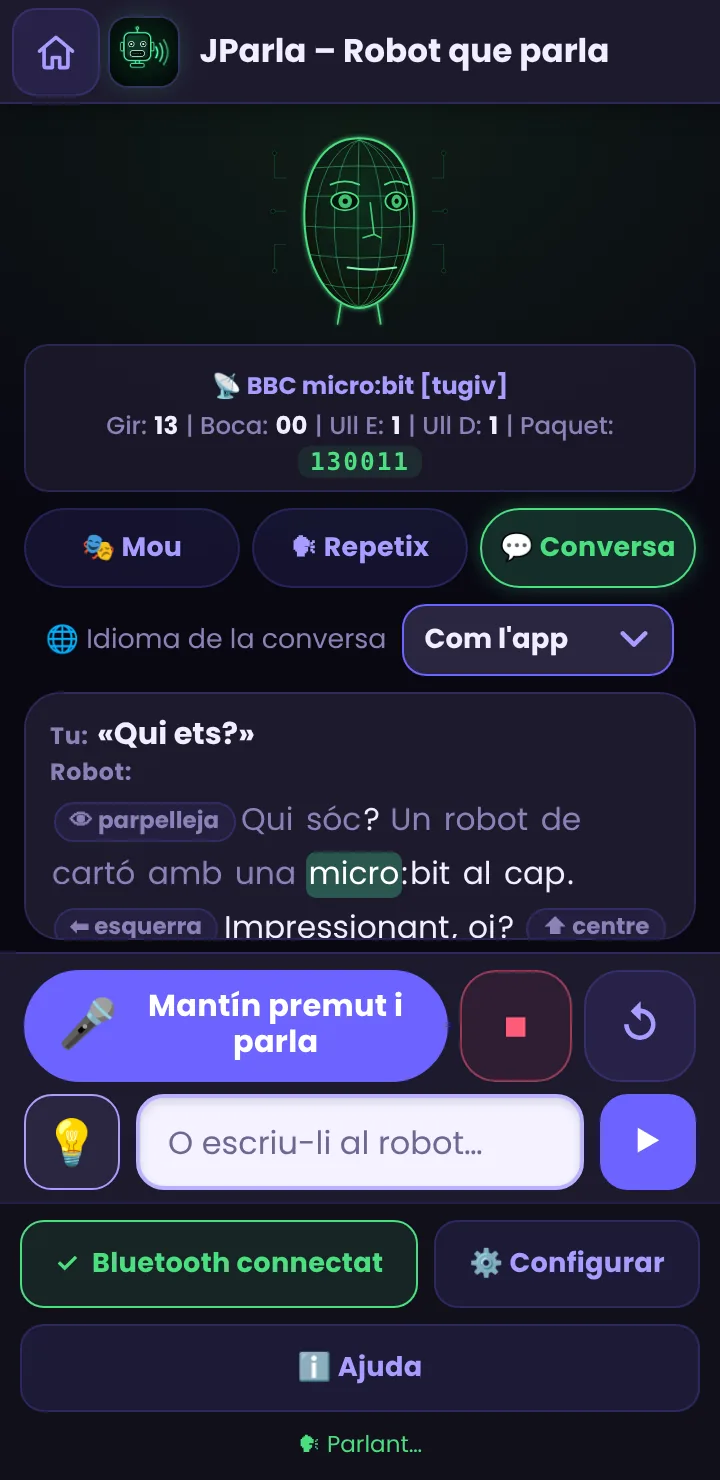
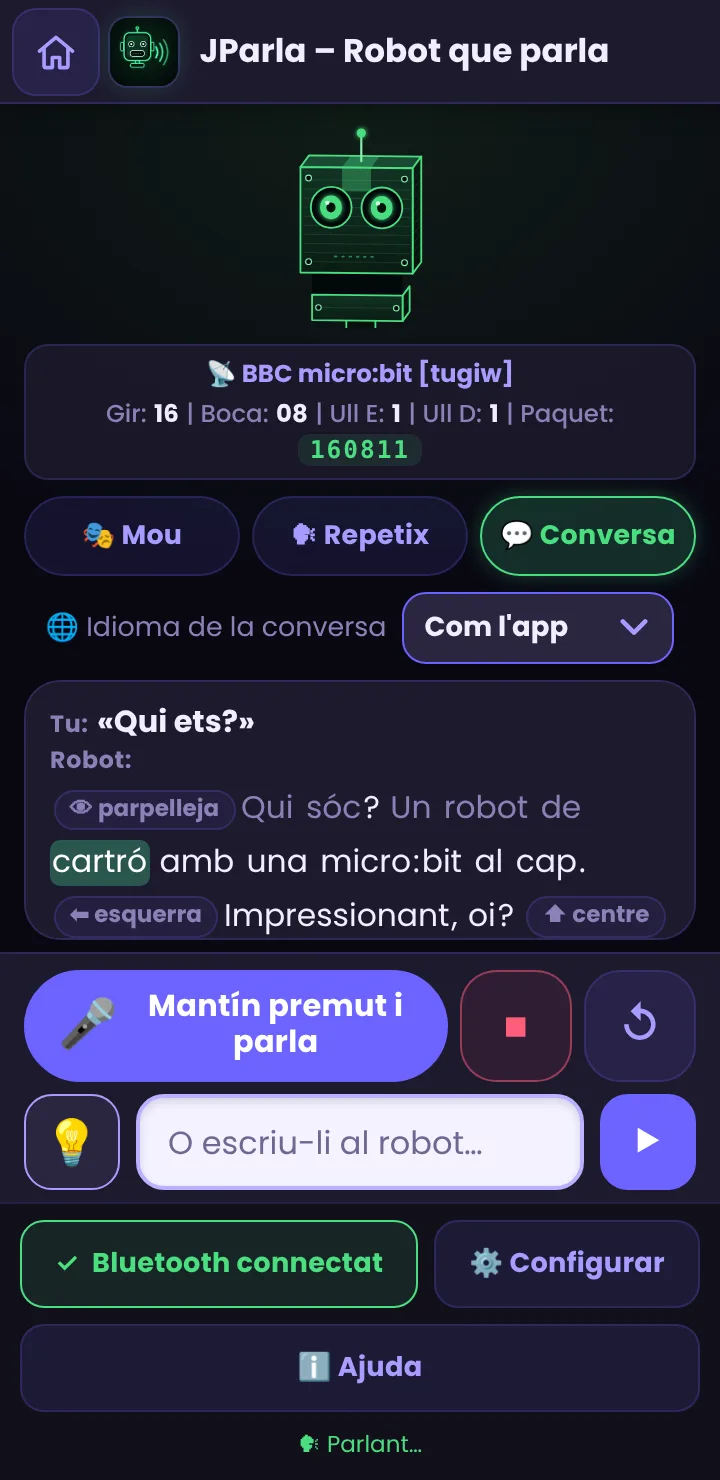
joarka

Changed region(s): [[0.0306, 0.2486, 0.9778, 0.6527], [0.3972, 0.0622, 0.6111, 0.2176], [0.9472, 0.4662, 0.9778, 0.4973]]

diff --git a/jparla/js/head_robot.js b/jparla/js/head_robot.js
@@ -1,0 +1,105 @@
+// ============================================================
+//  head_robot.js – Cap de robot de cartró (SVG) per a JParla
+//  Cap de JParla: robot de cartró verd (substitueix l'antic cap de malla, js/head.js).
+//  Es veu com en un espill: si el cap gira a l'esquerra (yaw > 0), la cara es mou cap a l'esquerra de la pantalla.
+//  JParlaHeadRobot.mount(contenidor)  ·  JParlaHeadRobot.set({ yaw:-1…1, mouth:0…1, eyeL:0|1, eyeR:0|1 })  ·  .get()
+// ============================================================
+(function (root) {
+  'use strict';
+  const NS = 'http://www.w3.org/2000/svg';
+  const CX = 150, K = 0.12, A = 62, D = 54, TOP = 84, BOT = 200, JA = 50, JD = 44, JH = 28;
+  const G1 = '#4ade80', G2 = '#86efac';      // verd de l'app (vora i detalls)
+  const el = (name, attrs, parent) => {
+    const e = document.createElementNS(NS, name);
+    for (const k in (attrs || {})) e.setAttribute(k, attrs[k]);
+    if (parent) parent.appendChild(e);
+    return e;
+  };
+  let svg = null, g = null;
+  let pose = { yaw: 0, mouth: 0, eyeL: 1, eyeR: 1 };
+
+  function mount(box) {
+    if (!box) return;
+    box.innerHTML = '';
+    svg = el('svg', { viewBox: '50 38 200 228', role: 'img', focusable: 'false', 'aria-hidden': 'true' }, box);
+    svg.classList.add('vhead-svg');
+    const d = el('defs', {}, svg);
+    const gl = el('filter', { id: 'vrGlow', x: '-50%', y: '-50%', width: '200%', height: '200%' }, d);
+    el('feGaussianBlur', { stdDeviation: '3', result: 'b' }, gl);
+    const m = el('feMerge', {}, gl); el('feMergeNode', { in: 'b' }, m); el('feMergeNode', { in: 'SourceGraphic' }, m);
+    const f1 = el('linearGradient', { id: 'vrFront', x1: 0, y1: 0, x2: 0, y2: 1 }, d);
+    el('stop', { offset: 0, 'stop-color': '#123324' }, f1); el('stop', { offset: 1, 'stop-color': '#0a1c14' }, f1);
+    const f2 = el('linearGradient', { id: 'vrSide', x1: 0, y1: 0, x2: 0, y2: 1 }, d);
+    el('stop', { offset: 0, 'stop-color': '#0a1912' }, f2); el('stop', { offset: 1, 'stop-color': '#06110c' }, f2);
+    g = el('g', {}, svg);
+    set(pose);
+  }
+
+  // Projecció d'un punt de la caixa (X, Y, Z) girada t radians: vista lleugerament de dalt
+  function P(t, X, Y, Z) { const c = Math.cos(t), s = Math.sin(t); return [CX + X * c - Z * s, Y + K * (X * s + Z * c)]; }
+  const pts = (a) => a.map((p) => p[0].toFixed(1) + ',' + p[1].toFixed(1)).join(' ');
+  const poly = (p, a, parent) => el('polygon', Object.assign({ points: pts(p), 'stroke-linejoin': 'round' }, a), parent);
+
+  // Caixa de cartró: X∈[-a,a], Y∈[y1,y2], Z∈[-d,d]. Dibuixa dalt, el costat visible i el davant, amb les ratlles del cartró ondulat.
+  function box(t, a, y1, y2, d, o, parent) {
+    const q = (X, Y, Z) => P(t, X, Y, Z), st = { stroke: G1, 'stroke-width': 2, 'stroke-linejoin': 'round' };
+    if (!o.notop) poly([q(-a, y1, d), q(a, y1, d), q(a, y1, -d), q(-a, y1, -d)], Object.assign({ fill: '#1a4a33' }, st), parent);
+    const sx = t >= 0 ? a : -a;
+    if (Math.abs(Math.sin(t)) > 0.015) {
+      poly([q(sx, y1, d), q(sx, y1, -d), q(sx, y2, -d), q(sx, y2, d)], Object.assign({ fill: 'url(#vrSide)' }, st), parent);
+      for (let y = y1 + 14; y < y2 - 4; y += 10) el('polyline', { points: pts([q(sx, y, d), q(sx, y, -d)]), stroke: G1, 'stroke-opacity': 0.14, 'stroke-width': 1, fill: 'none' }, parent);
+    }
+    poly([q(-a, y1, d), q(a, y1, d), q(a, y2, d), q(-a, y2, d)], Object.assign({ fill: 'url(#vrFront)' }, st), parent);
+    for (let y = y1 + 14; y < y2 - 4; y += 10) el('polyline', { points: pts([q(-a + 3, y, d), q(a - 3, y, d)]), stroke: G1, 'stroke-opacity': 0.16, 'stroke-width': 1, fill: 'none' }, parent);
+  }
+
+  function eye(t, X, open, parent, lookX) {
+    const k = Math.max(0.25, Math.cos(t)), p = P(t, X, 128, D), x = p[0], y = p[1];
+    el('ellipse', { cx: x, cy: y, rx: 21 * k + 1.5, ry: 22.5, fill: '#02080a', stroke: G1, 'stroke-width': 2 }, parent);
+    if (open) {
+      const gg = el('g', { filter: 'url(#vrGlow)' }, parent);
+      el('ellipse', { cx: x + lookX * k, cy: y, rx: 12 * k, ry: 13, fill: G1 }, gg);
+      el('ellipse', { cx: x + lookX * k, cy: y, rx: 5 * k, ry: 5.5, fill: '#02100a' }, parent);
+      el('ellipse', { cx: x + lookX * k - 4 * k, cy: y - 5, rx: 2.4 * k, ry: 2.4, fill: '#fff', 'fill-opacity': 0.8 }, parent);
+    } else {
+      el('path', { d: 'M' + (x - 17 * k) + ' ' + y + ' Q' + x + ' ' + (y + 8) + ' ' + (x + 17 * k) + ' ' + y, stroke: G1, 'stroke-width': 3, fill: 'none', 'stroke-linecap': 'round', filter: 'url(#vrGlow)' }, parent);
+    }
+  }
+
+  function set(p) {
+    if (!svg) return;
+    pose = Object.assign({}, pose, p || {});
+    const t = Math.max(-1, Math.min(1, pose.yaw)) * 0.8;       // yaw > 0: la cara gira cap a l'esquerra de la pantalla (espill)
+    const mo = Math.max(0, Math.min(1, pose.mouth));
+    g.innerHTML = '';
+    // coll (darrere de tot)
+    el('rect', { x: 134, y: 200, width: 32, height: 70, fill: '#06110c', stroke: G1, 'stroke-width': 2 }, g);
+    // mandíbula: baixa segons l'obertura de la boca
+    const gap = 3 + mo * 30, jy1 = BOT + gap, jy2 = jy1 + JH;
+    poly([P(t, -JA, BOT, D * 0.82), P(t, JA, BOT, D * 0.82), P(t, JA, jy1, D * 0.82), P(t, -JA, jy1, D * 0.82)], { fill: '#02080a' }, g);
+    box(t, JA, jy1, jy2, JD, { notop: true }, g);
+    [-JA + 7, JA - 7].forEach((X) => { const q = P(t, X, jy1 + JH / 2, JD); el('circle', { cx: q[0], cy: q[1], r: 3, fill: '#050d09', stroke: G2, 'stroke-width': 1.2 }, g); });
+    // cap
+    box(t, A, TOP, BOT, D, {}, g);
+    // cinta (dalt i davant)
+    poly([P(t, -16, TOP, D), P(t, 16, TOP, D), P(t, 16, TOP, -D), P(t, -16, TOP, -D)], { fill: G1, 'fill-opacity': 0.35, stroke: 'none' }, g);
+    poly([P(t, -16, TOP, D), P(t, 16, TOP, D), P(t, 16, TOP + 26, D), P(t, -16, TOP + 26, D)], { fill: G1, 'fill-opacity': 0.35, stroke: 'none' }, g);
+    // antena amb LED
+    const a = P(t, 0, TOP, -D * 0.1);
+    el('line', { x1: a[0], y1: a[1], x2: a[0], y2: a[1] - 28, stroke: G2, 'stroke-width': 2.4, 'stroke-linecap': 'round' }, g);
+    el('circle', { cx: a[0], cy: a[1] - 31, r: 5, fill: G1, filter: 'url(#vrGlow)' }, g);
+    // cargols
+    [[-A + 9, TOP + 12], [A - 9, TOP + 12], [-A + 9, BOT - 12], [A - 9, BOT - 12]].forEach((c) => {
+      const q = P(t, c[0], c[1], D); el('circle', { cx: q[0], cy: q[1], r: 3.2, fill: '#050d09', stroke: G2, 'stroke-width': 1.2 }, g);
+    });
+    // ulls (l'esquerre del cap és el de l'esquerra de la pantalla)
+    const lx = -Math.sin(t) * 3;
+    eye(t, -28, pose.eyeL, g, lx); eye(t, 28, pose.eyeR, g, lx);
+    // marca de la boca
+    const m1 = P(t, -24, BOT - 18, D), m2 = P(t, 24, BOT - 18, D);
+    el('line', { x1: m1[0], y1: m1[1], x2: m2[0], y2: m2[1], stroke: G1, 'stroke-opacity': 0.5, 'stroke-width': 2, 'stroke-linecap': 'round', 'stroke-dasharray': '2 6' }, g);
+  }
+
+  function get() { return Object.assign({}, pose); }
+  root.JParlaHeadRobot = { mount, set, get };
+})(window);

diff --git a/jparla/guia.html b/jparla/guia.html
@@ -53,7 +53,7 @@
 <section class="step" id="microbit"><div class="step-head"><span class="n">2</span><h2>Prepara la micro:bit</h2></div>
 <p>JParla usa <b>exactament el mateix programa que JFace</b>: un servei UART Bluetooth que llig el text de 6 dígits i el repartix a un servo de gir, un servo de boca i dos LEDs d'ulls.</p>
 <ol><li>Seguix la <a href="../jface/guia.html#makecode">guia de JFace</a> (MakeCode, extensió Bluetooth, «sense vinculació», blocs i connexions) i descarrega el programa a la micro:bit.</li><li>Si ja el tens per a JFace, <b>no cal fer res més</b>.</li></ol>
-<div class="note"><b>ℹ Sense micro:bit també val.</b> Si no tens la micro:bit a mà, el <b>cap virtual</b> de la pantalla fa el mateix moviment: és molt útil per a provar.</div>
+<div class="note"><b>ℹ Sense micro:bit també val.</b> Si no tens la micro:bit a mà, el <b>cap virtual</b> de la pantalla (un robot de cartró verd) fa el mateix moviment: gira, obri la boca i parpelleja. És molt útil per a provar.</div>
 </section>
 <section class="step" id="connecta"><div class="step-head"><span class="n">3</span><h2>Connecta la micro:bit amb JParla</h2></div>
 <div class="figrow"><figure class="fig phone"><img src="guia-img/jparla-1-inici.webp" alt="JParla en obrir-la"><figcaption>Pantalla inicial: cap virtual, dades enviades, modes i caixa de text.</figcaption></figure><figure class="fig phone"><img src="guia-img/jparla-2-connectat.webp" alt="JParla connectada a la micro:bit"><figcaption>Connectada: el botó es posa verd i apareix el nom de la micro:bit.</figcaption></figure></div>

diff --git a/jparla/js/script.js b/jparla/js/script.js
@@ -75,7 +75,7 @@
   const toIdle = () => showStatus(idleStatus);
 
   // ── Cap virtual i «titella» ───────────────────────────────
-  JParlaHead.mount($('head-box'));
+  JParlaHeadRobot.mount($('head-box'));
   const getCal = () => ({ yawC: 15, yawHalf: cfg.yawHalf, mouthMax: cfg.mouthMax, invert: cfg.invert });
   function paintPacket(pk) {
     $('yaw').textContent = pk.slice(0, 2); $('mouth').textContent = pk.slice(2, 4);
@@ -84,7 +84,7 @@
   }
   const puppet = JParlaPuppet.create({
     send: (pk) => sendUARTData(pk),
-    onPose: (p) => JParlaHead.set(p),
+    onPose: (p) => JParlaHeadRobot.set(p),
     onPacket: paintPacket,
     getCal,
     getInterval: () => cfg.interval * 10,
@@ -92,7 +92,7 @@
     getBlink: () => cfg.blink
   });
   paintPacket(J.toPacket(J.NEUTRAL, getCal()));
-  JParlaHead.set(J.NEUTRAL);
+  JParlaHeadRobot.set(J.NEUTRAL);
 
   // ── Veus del dispositiu ───────────────────────────────────
   const vlang = (v) => String(v.lang || '').replace('_', '-').toLowerCase();

diff --git a/jparla/index.html b/jparla/index.html
@@ -327,7 +327,7 @@
   <script src="../shared/bluetooth_uart.js"></script>
   <script src="js/core.js"></script>
   <script src="js/commands.js"></script>
-  <script src="js/head.js"></script>
+  <script src="js/head_robot.js"></script>
   <script src="js/puppet.js"></script>
   <script src="js/speech.js"></script>
   <script src="js/chat.js"></script>

diff --git a/jparla/README.md b/jparla/README.md
@@ -50,7 +50,7 @@ En el mode **Mou** la boca avança més a poc a poc (3,6 unitats/s) perquè el s
 | `js/puppet.js` | Bucle de 25 ms: mou gir/boca/ulls amb límit de velocitat, parla amb `speechSynthesis`, executa passos, envia paquets només quan canvien |
 | `js/speech.js` | Micròfon → text: Web Speech API o **Whisper local** (Worker `js/stt-worker.js`) |
 | `js/chat.js` | Gemini: conversa (instrucció de sistema: alumnat, resposta curta, llista d'ordres) i interpretació de frases lliures per a Mou |
-| `js/head.js` | Cap virtual SVG |
+| `js/head_robot.js` | Cap virtual SVG: robot de cartró verd (gira, obri la boca i parpelleja) |
 | `js/script.js` | Interfície, configuració, modes, targeta amb la paraula ressaltada |
 | `js/i18n.js` | Textos ca/es/en (claus `jp.*`, `jv.*`; **generat**) |
 | `precarrega.html` | Descàrrega del model de Whisper per a l'ús sense Internet |
